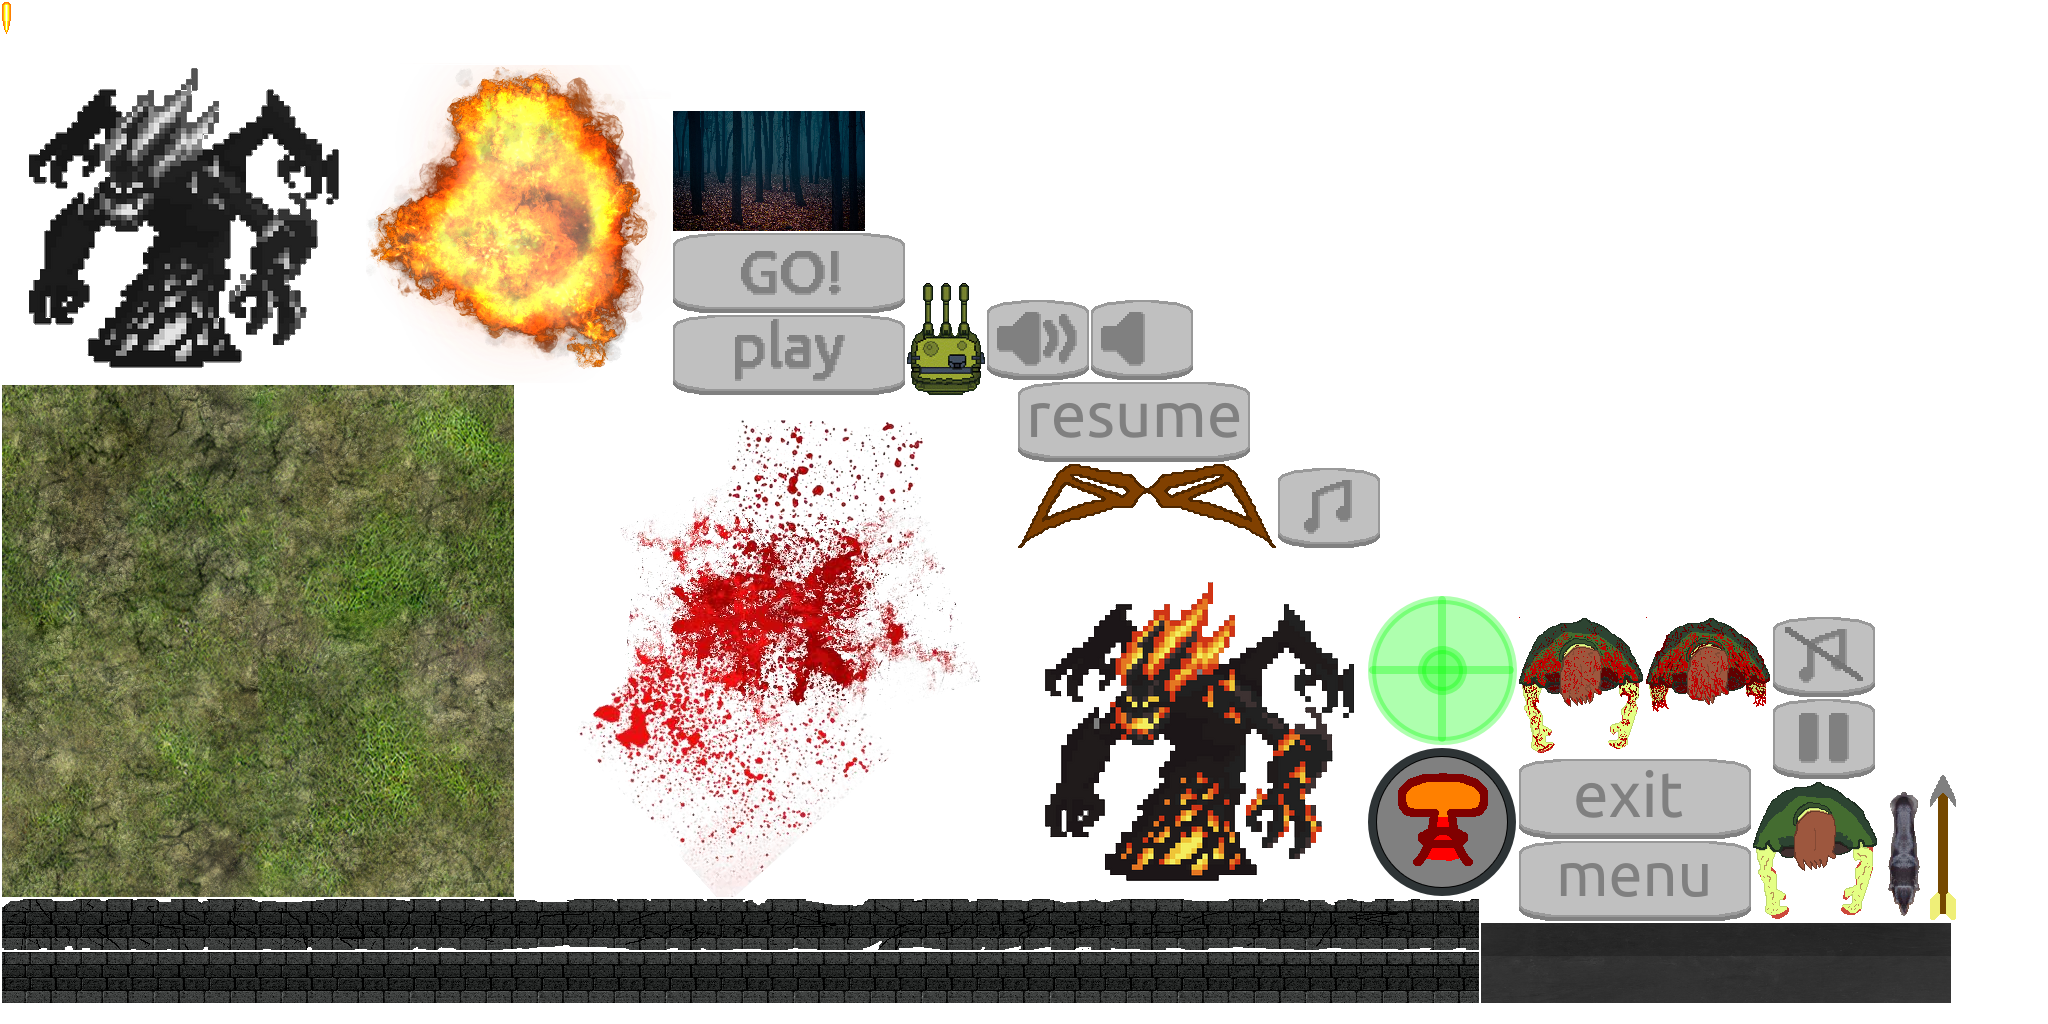
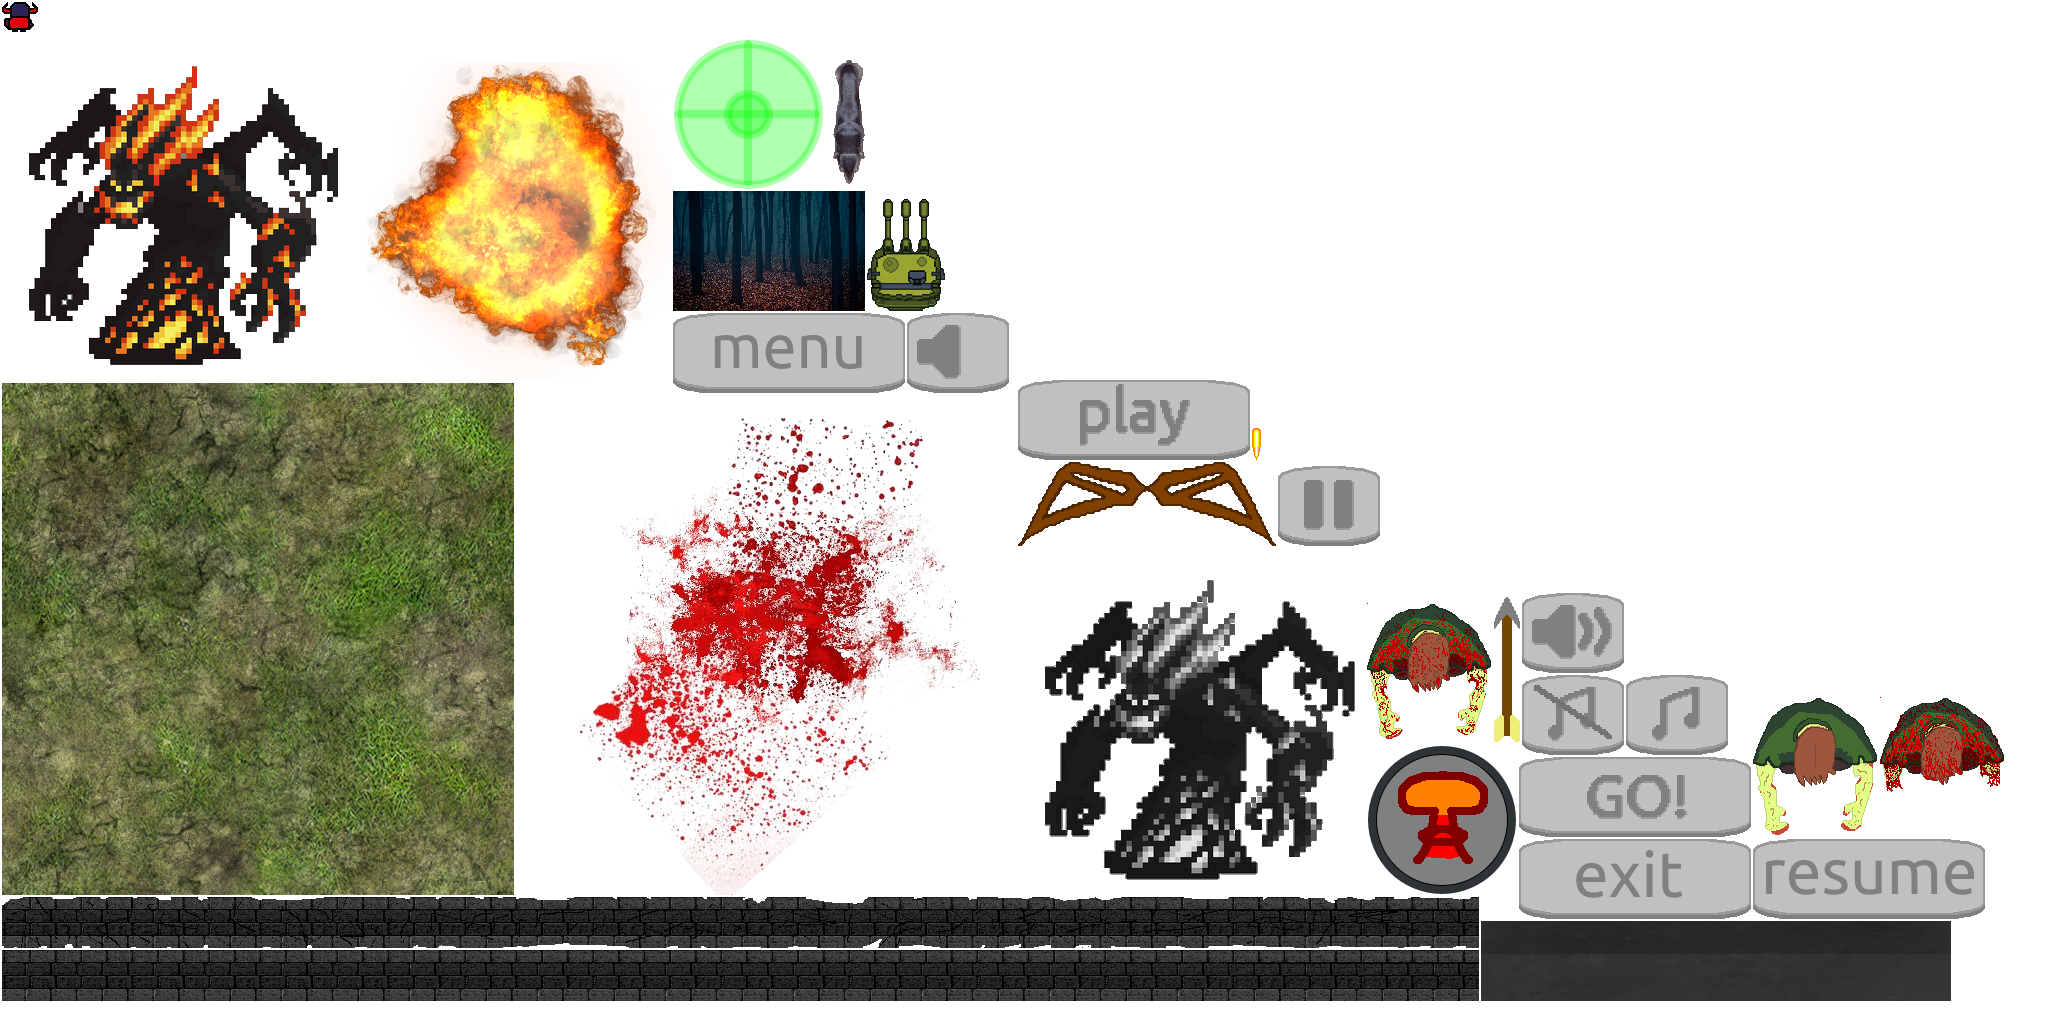
123

Changed region(s): [[0.0, 0.0312, 1.0, 1.0], [0.5, 0.7812, 0.5312, 0.8125], [0.0, 0.0, 0.0312, 0.0312]]

diff --git a/core/src/com/bow/game/control/LevelController.java b/core/src/com/bow/game/control/LevelController.java
@@ -150,7 +150,7 @@ public class LevelController {
                 weapon.setPosition(xp - weapon.getWidth() / 2, weapon.getY());
                 if (weapon.isLoaded() && weapon.isReadyToShoot()) {
                     weapon.shoot();
-                    ammunition.add(weapon.getAmmo().copy());
+                    ammunition.add(Ammo.copy(weapon.getAmmo()));
                     ammunition.get(ammunition.size() - 1).shoot();
                     if (game.isSoundsAllowed()) shootSound.play(0.09f);
                 }
@@ -418,8 +418,8 @@ public class LevelController {
                 -width / 2, 4f -height / 2, 2f * 28.96f, 2f, 1500f, width);
 
 
-        knights.add(new Knight(textureAtlas.findRegion("zombie"),HPtextureAtlas,
-                0 ,7f -height /2, 4f,2f,250,50f));
+        knights.add(new Knight(textureAtlas.findRegion("knight"),HPtextureAtlas,
+                0 ,7f -height /2, 4f,4f * 0.906f,250,50f));
         wallFloor = new Background(textureAtlas.findRegion("wallFloor"),
                 -width / 2, - height / 2, 5f * 5.875f, 5f);
         pauseButton = new Button(textureAtlas.findRegion("pauseButton"),

diff --git a/core/src/com/bow/game/model/mobs/Knight.java b/core/src/com/bow/game/model/mobs/Knight.java
@@ -1,0 +1,11 @@
+package com.bow.game.model.mobs;
+
+import com.badlogic.gdx.graphics.g2d.TextureAtlas;
+import com.badlogic.gdx.graphics.g2d.TextureRegion;
+import com.bow.game.model.Enemy;
+
+public class Knight extends Enemy {
+    public Knight(TextureRegion texture, TextureAtlas HPtextureAtlas, float x, float y, float width, float height, float maxHealthPoints, float damage) {
+        super(texture, HPtextureAtlas, x, y, width, height, maxHealthPoints, damage);
+    }
+}

diff --git a/core/src/com/bow/game/model/Ammo.java b/core/src/com/bow/game/model/Ammo.java
@@ -17,8 +17,10 @@ public abstract class Ammo extends GameObject {
         readyToDelete = false;
     }
 
-    public Ammo copy() {
-        return this;
+    protected abstract Ammo copy();
+
+    public static Ammo copy(Ammo ammo) {
+        return ammo.copy();
     }
 
     public void shoot() {
